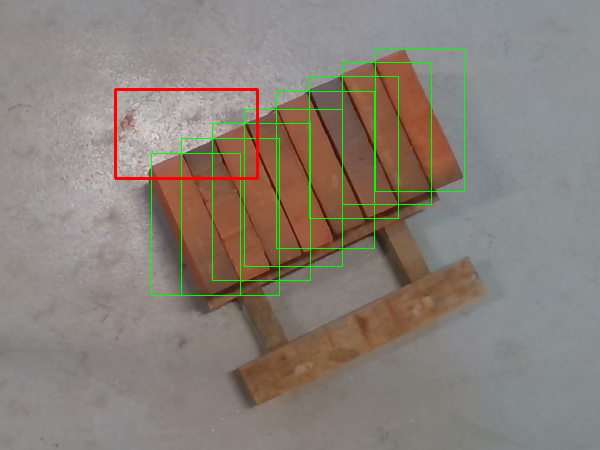
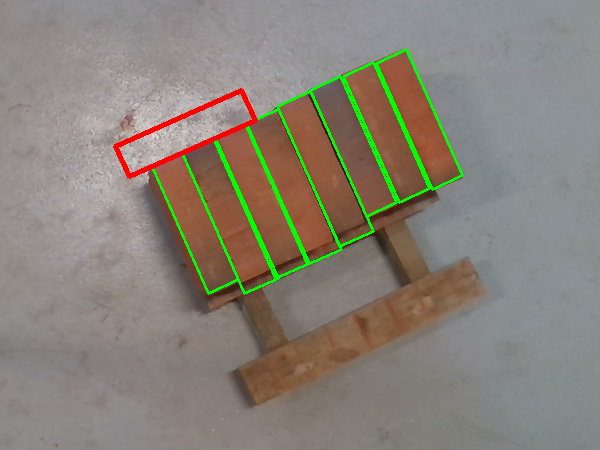
Created figures

diff --git a/01 Classic Vision/Includes/Chamfer_brick_detector.cpp b/01 Classic Vision/Includes/Chamfer_brick_detector.cpp
@@ -249,15 +249,15 @@ void Chamfer_brick_detector::find_edges(cv::Mat& src, cv::Mat& dst)
 	cv::Mat gray_img;
 	cv::cvtColor(src, gray_img, CV_BGR2GRAY);
 	cv::Mat filter_img;
-	cv::medianBlur(gray_img, filter_img, 3);
-	cv::GaussianBlur(gray_img, filter_img, cv::Size(3,3),0,0);
-	cv::Canny(filter_img, dst, this->canny_thres_low, this->canny_thres_high);
+    //cv::medianBlur(gray_img, filter_img, 3);
+    //cv::GaussianBlur(gray_img, filter_img, cv::Size(3,3),0,0);
+    //cv::Canny(filter_img, dst, this->canny_thres_low, this->canny_thres_high);
 	//cv::rectangle(dst, cv::Point(0, 0), cv::Point(25, dst.size().height - 1), 0, -1); //mask out pallet 1280x720
 	//cv::imshow("edge3", dst);
 
-	//cv::GaussianBlur(gray_img, filter_img, cv::Size(5, 5), 0, 0);
-	//cv::Canny(filter_img, dst, this->canny_thres_low, this->canny_thres_high);
-	//cv::rectangle(dst, cv::Point(0, 0), cv::Point(235, dst.size().height - 1), 0, -1); //mask out pallet 1280x720
+    cv::GaussianBlur(gray_img, filter_img, cv::Size(5, 5), 0, 0);
+    cv::Canny(filter_img, dst, this->canny_thres_low, this->canny_thres_high);
+    cv::rectangle(dst, cv::Point(0, 0), cv::Point(235, dst.size().height - 1), 0, -1); //mask out pallet 1280x720
 
 //	cv::imshow("edge5", dst);
 //	cv::waitKey(0);

diff --git a/01 Classic Vision/fig_dense_edge_map/main.cpp b/01 Classic Vision/fig_dense_edge_map/main.cpp
@@ -37,8 +37,8 @@ int main()
             true_pos.push_back(detector.predictions[i]);
     }
 
-    util::print_bounding_boxes(img, true_pos, cv::Scalar(0,255,0));
-    util::print_bounding_boxes(img, false_pos, cv::Scalar(0,0,255),2);
+    util::print_rotated_bounding_boxes(img, true_pos, cv::Scalar(0,255,0), 2);
+    util::print_rotated_bounding_boxes(img, false_pos, cv::Scalar(0,0,255),3);
 
     cv::Rect roi(540, 125, 600, 450);
 
